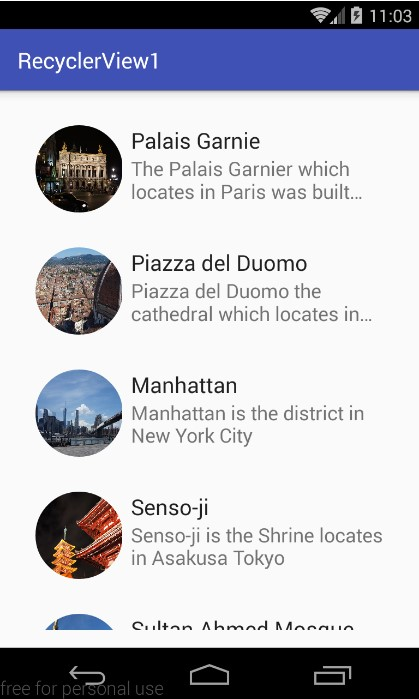
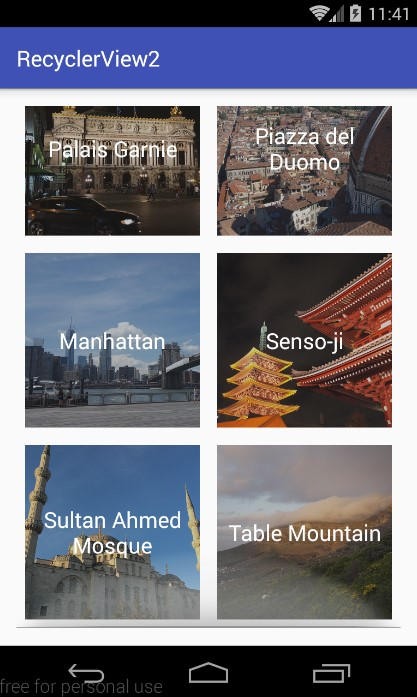
RecyclerView Grid

diff --git a/app/src/main/java/id/sch/smktelkom_mlg/learn/recyclerview2/MainActivity.java b/app/src/main/java/id/sch/smktelkom_mlg/learn/recyclerview2/MainActivity.java
@@ -2,13 +2,10 @@ package id.sch.smktelkom_mlg.learn.recyclerview2;
 
 import android.content.res.Resources;
 import android.content.res.TypedArray;
-import android.graphics.drawable.BitmapDrawable;
 import android.graphics.drawable.Drawable;
 import android.os.Bundle;
-import android.support.v4.graphics.drawable.RoundedBitmapDrawable;
-import android.support.v4.graphics.drawable.RoundedBitmapDrawableFactory;
 import android.support.v7.app.AppCompatActivity;
-import android.support.v7.widget.LinearLayoutManager;
+import android.support.v7.widget.GridLayoutManager;
 import android.support.v7.widget.RecyclerView;
 
 import java.util.ArrayList;
@@ -27,7 +24,7 @@ public class MainActivity extends AppCompatActivity {
         setContentView(R.layout.activity_main);
 
         RecyclerView recyclerView = (RecyclerView) findViewById(R.id.recyclerView);
-        LinearLayoutManager layoutManager = new LinearLayoutManager(this);
+        GridLayoutManager layoutManager = new GridLayoutManager(this, 2);
         recyclerView.setLayoutManager(layoutManager);
         mAdapter = new HotelAdapter(mList);
         recyclerView.setAdapter(mAdapter);
@@ -42,11 +39,7 @@ public class MainActivity extends AppCompatActivity {
         TypedArray a = resources.obtainTypedArray(R.array.places_picture);
         Drawable[] arFoto = new Drawable[a.length()];
         for (int i = 0; i < arFoto.length; i++) {
-            BitmapDrawable bd = (BitmapDrawable) a.getDrawable(i);
-            RoundedBitmapDrawable rbd =
-                    RoundedBitmapDrawableFactory.create(getResources(), bd.getBitmap());
-            rbd.setCircular(true);
-            arFoto[i] = rbd;
+            arFoto[i] = a.getDrawable(i);
         }
         a.recycle();
 

diff --git a/app/src/main/java/id/sch/smktelkom_mlg/learn/recyclerview2/adapter/HotelAdapter.java b/app/src/main/java/id/sch/smktelkom_mlg/learn/recyclerview2/adapter/HotelAdapter.java
@@ -34,7 +34,6 @@ public class HotelAdapter extends RecyclerView.Adapter<HotelAdapter.ViewHolder> 
     public void onBindViewHolder(ViewHolder holder, int position) {
         Hotel hotel = hotelList.get(position);
         holder.tvJudul.setText(hotel.judul);
-        holder.tvDeskripsi.setText(hotel.deskripsi);
         holder.ivFoto.setImageDrawable(hotel.foto);
     }
 
@@ -48,13 +47,11 @@ public class HotelAdapter extends RecyclerView.Adapter<HotelAdapter.ViewHolder> 
     public class ViewHolder extends RecyclerView.ViewHolder {
         ImageView ivFoto;
         TextView tvJudul;
-        TextView tvDeskripsi;
 
         public ViewHolder(View itemView) {
             super(itemView);
             ivFoto = (ImageView) itemView.findViewById(R.id.imageView);
             tvJudul = (TextView) itemView.findViewById(R.id.textViewJudul);
-            tvDeskripsi = (TextView) itemView.findViewById(R.id.textViewDeskripsi);
         }
     }
 }
